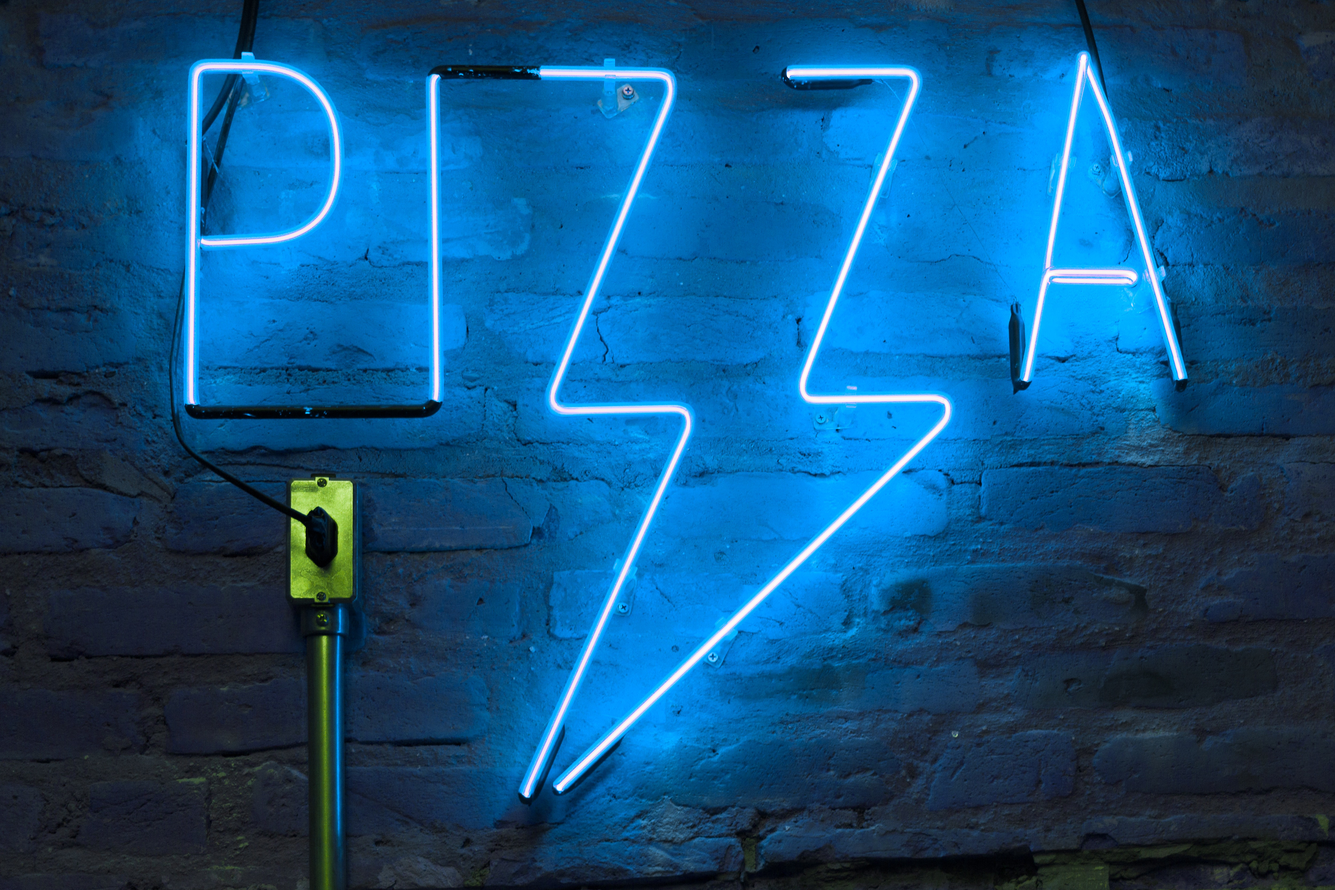
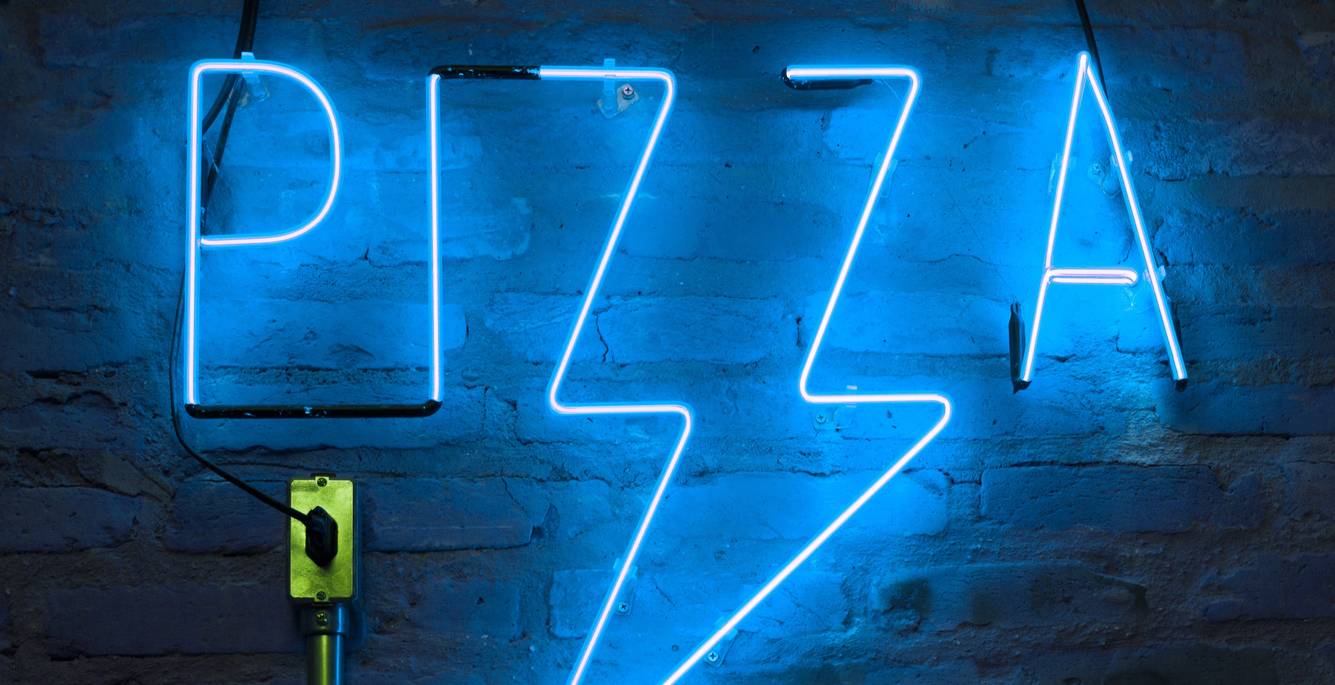
finished pizza site

diff --git a/Pizza!/Pizza.html b/Pizza!/Pizza.html
@@ -17,10 +17,10 @@
    
     <nav class="nav">
         <ul class="nav-links">
-            <li><a  href="#">Intro</a></li>
-            <li><a href="#">About Us</a></li>
-            <li><a href="#">Location</a></li>
-            <li><a href="#">Contact</a></li>
+            <li><a  href="#1">About us /</a></li>
+            <li><a href="#2">Menu /</a></li>
+            <li><a href="#3">Opening Times /</a></li>
+            <li><a href="#4">Contact</a></li>
         </ul>
 
         <img class="logo" src="/img/HP.jpg" alt="Logo">
@@ -29,7 +29,7 @@
     
     <section class="landing"></section>
 
-    <section class="intro">
+    <section id="1" class="intro">
 
         <img src="/img/ufo.jpg" alt="A square pizza dough">
 
@@ -59,7 +59,7 @@
 
     <main>
 
-    <section class="menu">
+    <section id="2" class="menu">
         <h2>Menu</h2>
 
         <P>Lorem ipsum, dolor sit amet consectetur adipisicing elit. Voluptatibus, nihil animi. At, itaque ullam, debitis rerum minus ab odit laborum repudiandae dolorem unde animi illum possimus reprehenderit corporis! In eligendi at soluta ratione, consequatur blanditiis ipsam, voluptatem inventore asperiores delectus culpa expedita sint, corporis error deserunt! Repudiandae nam soluta itaque facere minima unde dolor. Dolorum quibusdam ipsum dolor libero molestiae officia voluptates tenetur odio, placeat culpa et, excepturi quos, recusandae nulla quasi natus animi ipsam sit. Sequi modi, corporis non placeat reprehenderit enim exercitationem, atque eos vitae facere debitis vero neque! Id eos quaerat nulla perspiciatis necessitatibus excepturi, asperiores voluptate!</P>
@@ -91,7 +91,7 @@
 
     </section>
 
-    <section class="opening">
+    <section id="3" class="opening">
             <p>OPENING TIMES:<br>
             Monday 00:00-0000<br>
             Monday 00:00-0000<br>
@@ -112,7 +112,7 @@
         <p>My name <br class="break"> <a href="mailto:mikec1687@hotmail.com">mikec1687@hotmail.com</a> <br class="break"> 080-4003-2190 <br class="break"> Kita ku, Osaka. Japan   </p> 
 
 
-        <ul class="link-icons">
+        <ul id="4" class="link-icons">
             <li><a href=""><ion-icon name="logo-instagram"></ion-icon></a></li>
             <li><a href=""><ion-icon name="logo-facebook"></ion-icon></ion-icon></a></li>
             <li><a href=""><ion-icon name="mail-outline"></ion-icon></a></li>

diff --git a/Pizza!/pizza.css b/Pizza!/pizza.css
@@ -14,8 +14,8 @@ body, html{
 
 .landing{
     background-image: url(/img/pizza-landing.jpg);
-    height: 60vh;
-    width: 100%;
+    height: 70vh;
+    width: auto;
     background-size:cover;
     background-position: center;
     background-attachment: fixed;
@@ -36,7 +36,7 @@ body, html{
     display: flex;
     flex-direction: row-reverse;
     justify-content: space-between;
-    height: 15vh; 
+    height: 20vh; 
     position: relative;
     z-index: 999;
     box-shadow: 0 0 10px #00a852;
@@ -120,7 +120,7 @@ a:hover{
 .intro, .merch{
     margin:5%;
     border-bottom: solid;
-    padding-bottom: 2%;
+    padding-bottom: 10%;
     background-color: black;
     color: #c2c2c2;
       
@@ -272,6 +272,7 @@ main{
     list-style: none;
     display:flex;
     justify-content: space-around;
+    gap: 10%;
     font-size: 300%;
     color: black;
     
@@ -297,5 +298,30 @@ main{
     box-shadow: 0px 0px 30px #00a852;
 }
 
+@media screen and (max-width:760px){
+html, body{
+    font-size:90%;
+       
+}
+.opening{
+    margin: 5% 15%;
+}
 
+.nav a{
+    font-size:50% ;
+}
+
+.logo{
+    display: none;
+}
+
+.landing{
+background-image:url(/img/HP.jpg);
+background-position: center;
+background-size: cover;
+background-attachment: local;
+opacity: 1;
+
+}
+}
 
